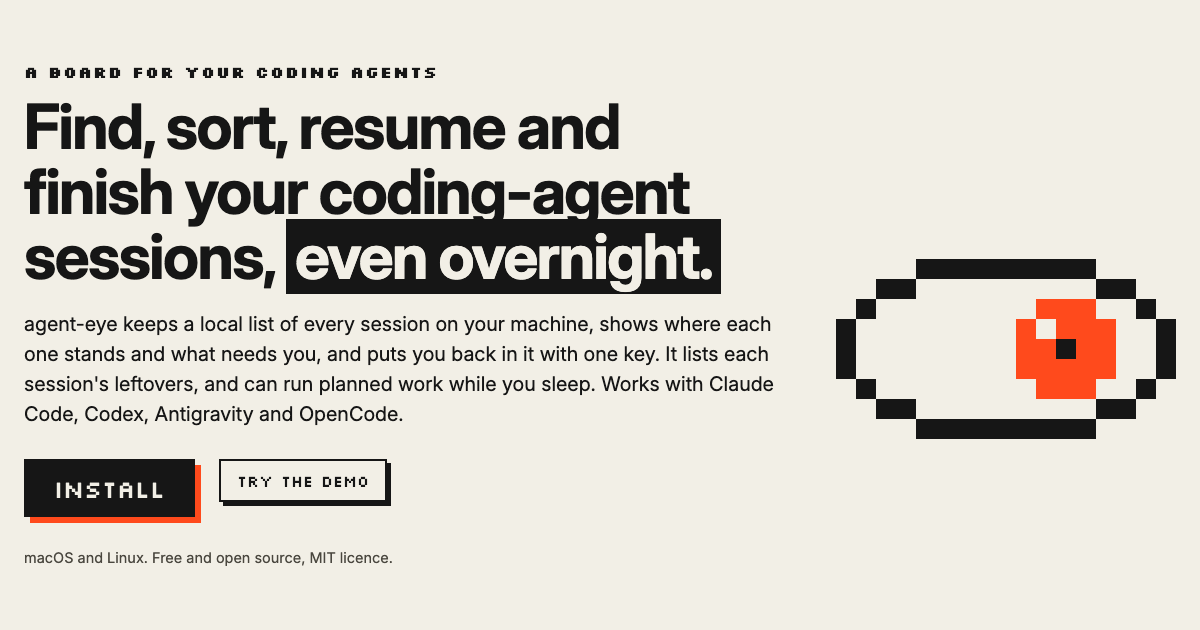
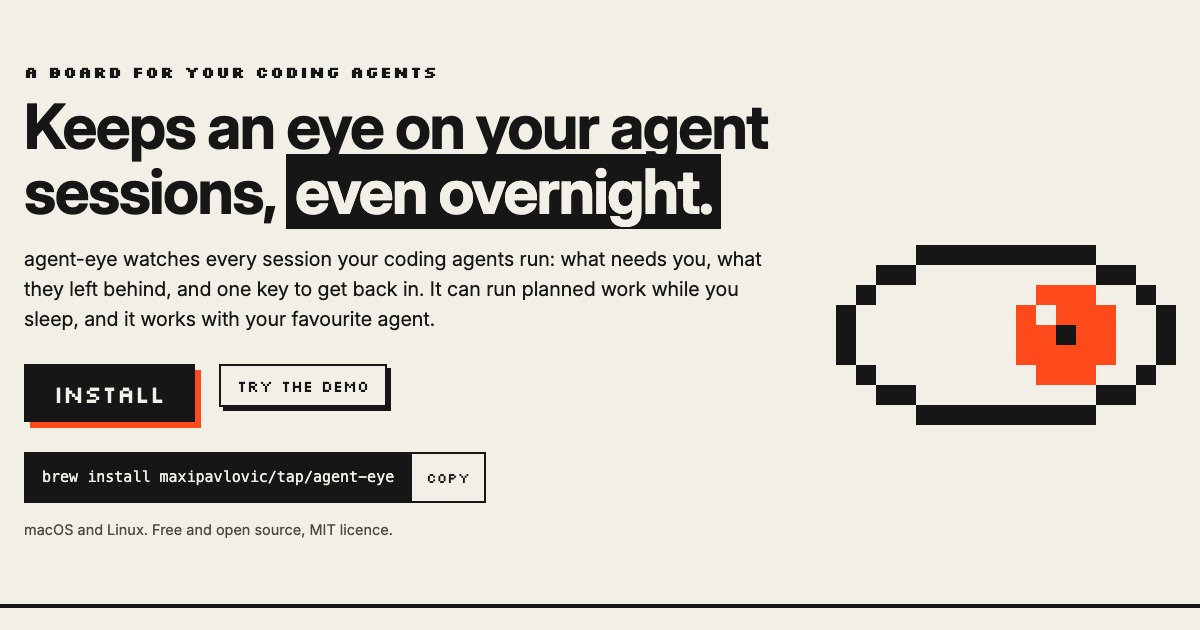
site: a shorter headline and pitch with the eye in it, shorter feature cards, docs code wraps, the demo board leaves its theme switch to the page so + IDEA fits

diff --git a/site/pages/landing.html b/site/pages/landing.html
@@ -3,8 +3,8 @@
     <div class="hero-eye" data-track aria-hidden="true">{{eye}}</div>
     <div class="hero-text">
       <p class="label">A BOARD FOR YOUR CODING AGENTS</p>
-      <h1>Find, sort, resume and finish your coding-agent sessions, <mark>even overnight.</mark></h1>
-      <p class="pitch">agent-eye keeps a local list of every session on your machine, shows where each one stands and what needs you, and puts you back in it with one key. It lists each session's leftovers, and can run planned work while you sleep. Works with Claude Code, Codex, Antigravity and OpenCode.</p>
+      <h1>Keeps an eye on your agent sessions, <mark>even overnight.</mark></h1>
+      <p class="pitch">agent-eye watches every session your coding agents run: what needs you, what they left behind, and one key to get back in. It can run planned work while you sleep, and it works with your favourite agent.</p>
       <div class="cta">
         <a class="btn big" href="#install">INSTALL</a>
         <a class="btn" href="#demo">TRY THE DEMO</a>
@@ -40,47 +40,47 @@
       <li class="tile">
         {{sprite:scan:4}}
         <h3>Every session, found</h3>
-        <p>It reads the session files your agent already writes. Nothing to wrap, nothing to log by hand. New sessions show up on their own.</p>
+        <p>It reads the files your agent already writes. New sessions show up on their own.</p>
       </li>
       <li class="tile">
         {{sprite:search:4}}
         <h3>Search that understands you</h3>
-        <p>Word forms, typos, and the PR and ticket links in a session. From the board, from the terminal (<code>eye</code> or Ctrl-G), or by asking your agent.</p>
+        <p>Word forms, typos, PR and ticket links. From the board, the terminal or your agent.</p>
       </li>
       <li class="tile">
         {{sprite:resume:4}}
         <h3>Back in one move</h3>
-        <p>Ctrl-G, a few words, Enter: the session resumes where you left it, or forks. When your agent has already deleted an old transcript, agent-eye puts its own copy back first.</p>
+        <p>Ctrl-G, a few words, Enter: back where you left it, or in a fork of it.</p>
       </li>
       <li class="tile">
         {{sprite:keep:4}}
         <h3>Nothing lost</h3>
-        <p>A compressed copy of every transcript. <code>eye export</code> writes one file to take it all to another machine.</p>
+        <p>A copy of every transcript, and one file to move it all to another machine.</p>
       </li>
       <li class="tile">
         {{sprite:needs_you:4}}
         <h3>Know what needs you</h3>
-        <p>Running, Needs you, Waiting on others, Paused, Done. A session stopped on a permission prompt or a question is the first card you see, with its state and next step.</p>
+        <p>A session waiting for your answer is the first card you see, with its next step.</p>
       </li>
       <li class="tile">
         {{sprite:tidy:4}}
         <h3>Leftovers, cleaned up</h3>
-        <p>Servers still running, commits on no remote. You stop, remove or copy, and agent-eye asks first. <code>eye forget</code> removes a session for good.</p>
+        <p>Servers still running, commits on no remote. Stop or remove them; eye asks first.</p>
       </li>
       <li class="tile">
         {{sprite:moon:4}}
         <h3>Night shift</h3>
-        <p>Plan an idea or a session for tonight. It runs while you sleep, in its own worktree or copy, inside your plan, and never pushes. Off until you switch it on.</p>
+        <p>Plan work for tonight. It runs in its own worktree, inside your plan, and never pushes.</p>
       </li>
       <li class="tile">
         {{sprite:coin:4}}
         <h3>What it costs</h3>
-        <p>Tokens and an API-equivalent estimate per session, project and agent, plus where your plan limits stand.</p>
+        <p>Tokens and an estimated cost per session, project and agent, and your plan limits.</p>
       </li>
       <li class="tile">
         {{sprite:terminal:4}}
         <h3>Works with your agents</h3>
-        <p>Claude Code, Codex, Antigravity and OpenCode, and alongside T3 Code and <code>claude agents</code>. Local only: no account, no telemetry.</p>
+        <p>Claude Code, Codex, Antigravity and OpenCode. Local only: no account, no telemetry.</p>
       </li>
     </ul>
   </div>

diff --git a/site/src/site.ts b/site/src/site.ts
@@ -27,7 +27,15 @@ function applyTheme(pref: ThemePref) {
 let pref = savedTheme();
 applyTheme(pref);
 system.addEventListener('change', () => applyTheme(pref));
-document.querySelector('iframe')?.addEventListener('load', () => applyTheme(pref));
+document.querySelector('iframe')?.addEventListener('load', () => { applyTheme(pref); markEmbedded(!document.fullscreenElement); });
+
+/** The demo board in the page (not full screen) leaves its theme switch to the site's, so + IDEA fits. */
+function markEmbedded(on: boolean) {
+  try {
+    const root = document.querySelector('iframe')?.contentDocument?.documentElement;
+    if (on) root?.setAttribute('data-embed', ''); else root?.removeAttribute('data-embed');
+  } catch { /* not loaded yet */ }
+}
 for (const b of document.querySelectorAll<HTMLElement>('[data-theme-set]')) {
   b.addEventListener('click', () => {
     pref = b.dataset.themeSet as ThemePref;
@@ -52,6 +60,7 @@ if (frame && full && document.fullscreenEnabled) {
     const on = document.fullscreenElement === frame;
     full.textContent = on ? 'EXIT FULL SCREEN (ESC)' : 'FULL SCREEN';
     full.setAttribute('aria-pressed', String(on));
+    markEmbedded(!on);
     if (on) frame.querySelector('iframe')?.focus();
   });
 }

diff --git a/site/src/site.css b/site/src/site.css
@@ -188,7 +188,7 @@ code { background: color-mix(in srgb, var(--ink) 11%, var(--paper)); padding: .0
 .doc .anchor { margin-left: .5em; font-weight: 400; text-decoration: none; opacity: 0; }
 .doc :is(h2, h3):hover .anchor, .doc .anchor:focus { opacity: 1; }
 .doc .anchor:hover { background: none; color: var(--accent); }
-.doc pre { background: var(--code-bg); color: var(--code-fg); padding: 14px 16px; overflow-x: auto; border: 2px solid var(--ink); font-size: 14.5px; line-height: 1.5; margin: 18px 0; }
+.doc pre { background: var(--code-bg); color: var(--code-fg); padding: 14px 16px; white-space: pre-wrap; overflow-wrap: anywhere; border: 2px solid var(--ink); font-size: 14.5px; line-height: 1.5; margin: 18px 0; }
 .doc pre code { background: none; padding: 0; font-size: inherit; }
 .doc blockquote { margin: 18px 0; padding: 2px 0 2px 18px; border-left: 4px solid var(--ink); }
 .doc hr { border: 0; height: 8px; background: var(--d50); margin: 36px 0; }

diff --git a/site/plugin/site.ts b/site/plugin/site.ts
@@ -16,8 +16,8 @@ interface Options {
 }
 
 const LANDING = {
-  title: 'agent-eye: find, sort, resume and finish your coding-agent sessions, even overnight',
-  description: 'Find, sort, resume and finish your coding-agent sessions, even overnight: a local board and terminal picker that show what is running, what needs you and what was left behind. Works with Claude Code, Codex, Antigravity and OpenCode. Open source, local only.',
+  title: 'agent-eye: keeps an eye on your agent sessions, even overnight',
+  description: 'Keeps an eye on your agent sessions, even overnight: a local board and terminal picker that show what is running, what needs you and what was left behind. Works with Claude Code, Codex, Antigravity and OpenCode. Open source, local only.',
 };
 
 /** On its own page the demo board gets a way back to the site; inside the site's frame it does not. */

diff --git a/face/src/looks/ink/ink.css b/face/src/looks/ink/ink.css
@@ -749,3 +749,6 @@ fieldset.nightpick .fchips { margin: 4px 0 0; }
 .details { margin-top: 44px; }
 .details .fsec { margin-top: 16px; }
 .details .fsec.open { margin-top: 30px; }
+
+/* the board embedded in the site's page (not full screen): the site's own switch sets the theme, so the header keeps room for + IDEA */
+:root[data-embed] .hd .theme[aria-label='Theme'] { display: none; }

diff --git a/CHANGELOG.md b/CHANGELOG.md
@@ -7,6 +7,7 @@ All notable changes are listed here. The format follows [Keep a Changelog](https
 ### Changed
 
 - Dependencies: rusqlite 0.43 (SQLite from libsqlite3-sys 0.40), sha2 0.11, vite 8.3.8 (face).
+- Site: a shorter headline ("Keeps an eye on your agent sessions, even overnight") and pitch, shorter feature cards, code in the docs wraps instead of scrolling sideways, and the demo board leaves its theme switch to the page's so + IDEA fits. The README uses the same headline.
 
 ## 0.3.0 - 2026-11-22
 

diff --git a/README.md b/README.md
@@ -6,7 +6,7 @@
 </p>
 
 <p align="center">
-  <b>Find, sort, resume and finish your coding-agent sessions, even overnight.</b><br>
+  <b>Keeps an eye on your agent sessions, even overnight.</b><br>
   A local index, a terminal picker and an optional pixel-art board. macOS and Linux.
 </p>
 
